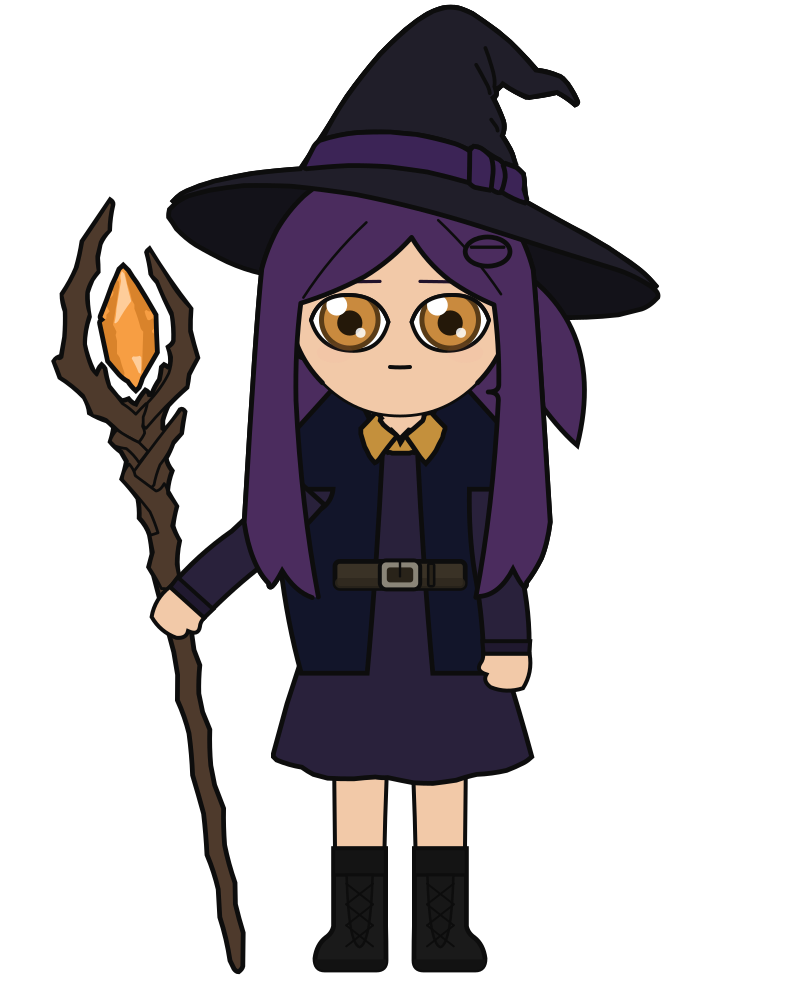
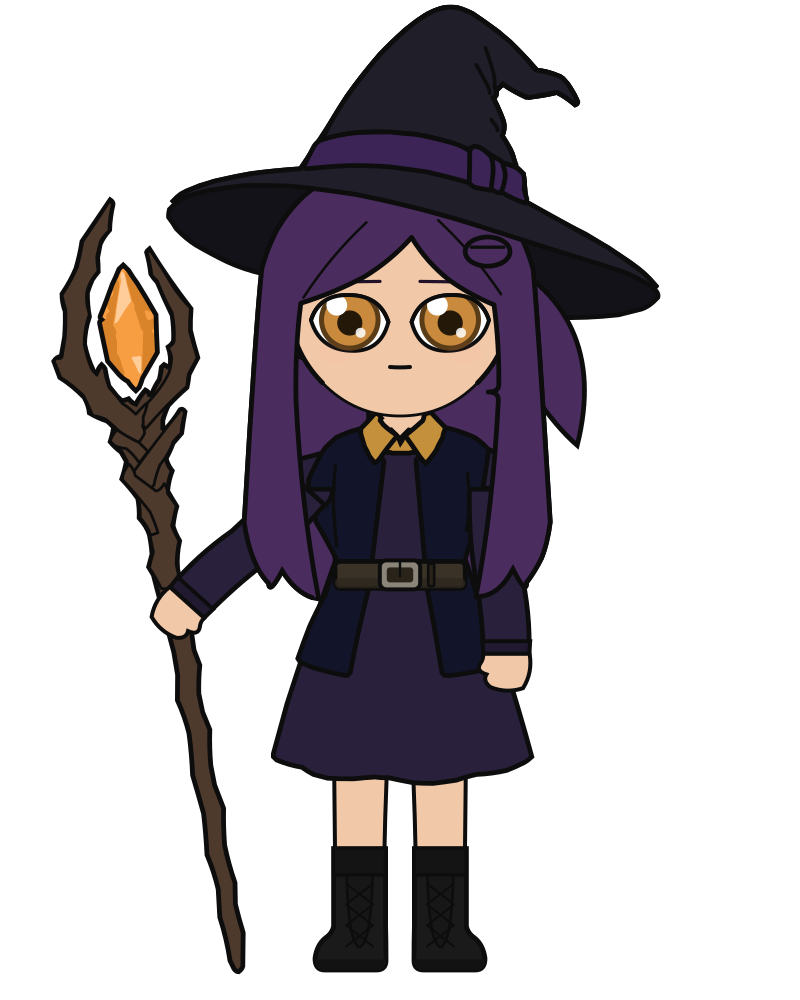
open jacket cut

diff --git a/harness/clothes/trace_jacket.py b/harness/clothes/trace_jacket.py
@@ -1,0 +1,131 @@
+"""Trace the jacket's body (not its sleeves) off katherina_grok.jpg.
+
+    ./harness/run.sh harness/clothes/trace_jacket.py
+
+Each side of the jacket is one piece: the navy upper panel, carried down under
+the belt into the lower panel that flares from it. What hides it, and how each
+hidden stretch is carried:
+
+- The sleeves share components 179/180 with the upper panels, with no outline
+  between; they are purple where the panels are navy, so each pixel is split by
+  hue (red above green is the sleeve's purple). The sleeves are C4's.
+- The hair covers the upper panels' outer edges from the shoulder to the
+  armpit. The panel there is the convex hull of its own visible navy, which
+  carries the shoulder line and the side seam straight across the hair; any
+  body a cut is worn on puts its own hair over that stretch too.
+- The belt covers the join. Its rows are bridged edge to edge, measured just
+  above and just below it (the staff's shaft behind the fist, again).
+
+The seam lines are the outline-dark ink inside each upper panel's hull, away
+from its boundary: where the sleeve's back meets the body.
+
+Writes `out/clothes/jacket.json` (left piece, right piece, seam lines) and
+`out/clothes/jacket_overlay.png`.
+"""
+
+from __future__ import annotations
+
+import json
+import sys
+from pathlib import Path
+
+import numpy as np
+from PIL import Image, ImageDraw
+from scipy import ndimage as ndi
+from scipy.spatial import ConvexHull
+
+sys.path.insert(0, str(Path(__file__).resolve().parents[2] / ".claude/skills/trace-reference"))
+import trace_lib as tl  # noqa: E402
+
+REF = Path(__file__).resolve().parents[3] / "time_slider_katherina/style-anchors/katherina_grok/katherina_grok.jpg"
+OX, OY, SC = 650.0, 481.0, 173.7
+OUT = Path("out/clothes")
+
+rgb = np.asarray(Image.open(REF).convert("RGB")).astype(int)
+r, g, b = rgb[..., 0], rgb[..., 1], rgb[..., 2]
+s = rgb.sum(2)
+lab, _ = ndi.label(s > 60)
+disk = ndi.generate_binary_structure(2, 1)
+ROWS = np.arange(s.shape[0])[:, None]
+COLS = np.arange(s.shape[1])[None, :]
+
+BELT_TOP, BELT_BOT = 878, 925  # rows the belt covers, with its outline
+
+
+def hull_mask(m: np.ndarray) -> np.ndarray:
+    ys, xs = np.nonzero(m)
+    h = ConvexHull(np.column_stack([xs, ys]))
+    inside = np.ones(m.shape, bool)
+    for a, bb, c in h.equations:
+        inside &= a * COLS + bb * ROWS + c <= 0.5
+    return inside
+
+
+def edges(m: np.ndarray, rows: range) -> np.ndarray:
+    out = []
+    for y in rows:
+        xs = np.nonzero(m[y])[0]
+        if len(xs):
+            out.append((xs.min(), xs.max()))
+    return np.mean(out, axis=0)
+
+
+result = {}
+over = Image.fromarray(np.clip(rgb * 3.0, 0, 255).astype("uint8"))
+d = ImageDraw.Draw(over)
+for side, upper_id, lower_id in (("left", 180, 203), ("right", 179, 202)):
+    comp = lab == upper_id
+    navy = comp & ~(r > g + 3)
+    navy = ndi.binary_opening(navy, disk, 2)
+    navy &= ROWS < BELT_TOP  # the panel above the belt only
+    # the sleeve's purple can leave navy specks out along the arm; keep the
+    # panel's own blob
+    nl, _ = ndi.label(navy)
+    sizes = np.bincount(nl.ravel())
+    sizes[0] = 0
+    navy = nl == np.argmax(sizes)
+    upper = hull_mask(navy) & (ROWS < BELT_TOP + 2)
+    lower = ndi.binary_fill_holes(lab == lower_id)
+    a0 = edges(upper, range(BELT_TOP - 10, BELT_TOP))
+    b0 = edges(lower, range(BELT_BOT + 2, BELT_BOT + 12))
+    bridge = np.zeros(s.shape, bool)
+    y0, y1 = BELT_TOP - 4, BELT_BOT + 6
+    for y in range(y0, y1):
+        t = (y - y0) / (y1 - y0)
+        lo, hi = (1 - t) * a0 + t * b0
+        bridge[y, round(lo) : round(hi) + 1] = True
+    piece = upper | bridge | lower
+    piece = ndi.binary_fill_holes(ndi.binary_erosion(ndi.binary_dilation(piece, disk, 3), disk, 3))
+    piece = ndi.binary_dilation(piece, disk, 3)
+    pts = [((x - OX) / SC, (y - OY) / SC) for x, y in tl.boundary(piece)]
+    start, segs = tl.fit_closed(pts, 0.010)
+    result[side] = {"start": start, "segs": segs}
+    d.line([(OX + x * SC, OY + y * SC) for x, y in tl.sample_chain(start, segs, 10)], fill="#00ff66", width=2)
+    print(side, "segments", len(segs), "navy px", int(navy.sum()))
+
+    # seam line: dark ink inside the upper hull, well away from its boundary
+    inner = ndi.binary_erosion(upper, disk, 8)
+    ink = inner & (s <= 60) & ~ndi.binary_dilation(lab == 8, disk, 4)
+    il, n = ndi.label(ink, structure=np.ones((3, 3)))
+    lines = []
+    for i in range(1, n + 1):
+        ys, xs = np.nonzero(il == i)
+        # The collar's own outline runs inside the hull's top corner; the
+        # seams are the long vertical strokes below it.
+        if len(xs) < 60 or ys.mean() < 730:
+            continue
+        pts2 = np.column_stack([xs, ys]).astype(float)
+        mu = pts2.mean(0)
+        u = np.linalg.svd(pts2 - mu, full_matrices=False)[2][0]
+        order = np.argsort((pts2 - mu) @ u)
+        bins = np.array_split(order, 6)
+        cl = [pts2[order[0]], *[pts2[bb].mean(0) for bb in bins if len(bb)], pts2[order[-1]]]
+        h = [((x - OX) / SC, (y - OY) / SC) for x, y in cl]
+        st, sg = tl.fit_chain(h, [0, len(h) // 2, len(h) - 1])
+        lines.append({"start": st, "segs": sg, "px": len(xs)})
+        d.line([(OX + x * SC, OY + y * SC) for x, y in tl.sample_chain(st, sg, 10)], fill="#ff2255", width=2)
+    result[side + "_lines"] = lines
+    print(side, "seam lines", [ln["px"] for ln in lines])
+
+json.dump(result, open(OUT / "jacket.json", "w"), indent=1)
+over.crop((360, 640, 940, 1080)).resize((1160, 880)).save(OUT / "jacket_overlay.png")

diff --git a/src/anime_character_creator/character.py b/src/anime_character_creator/character.py
@@ -307,6 +307,8 @@ class Outfit:
     # layer" part and found this already drew one at a short enough length,
     # so nothing new was built for it.
     coat_color: str | None = None
+    # A traced cut from `COAT_CUTS`; `None` is the shared two-panel coat.
+    coat_cut: str | None = None
     # Where the coat's hem falls, shoulder (0) to ankle (1). Roughly: 0.20 an
     # open vest or cardigan over a tunic, 0.30 a jacket cropped at the waist,
     # 0.62 below the knee, 0.75 mid-calf.
@@ -3317,6 +3319,82 @@ SKIRT_CUTS: dict[str, GarmentCut] = {
 }
 
 
+# Traced coat cuts, drawn by `_coat` when `Outfit.coat_cut` names one. The
+# cut is the whole garment, so `coat_length` does not apply to it.
+# `open_jacket` is the jacket of `katherina_grok.jpg` (`katherina-clothes-plan.md`,
+# C3), its body only: each side is the navy upper panel (split by hue from the
+# purple sleeve it shares a fill with), carried across the hair as the convex
+# hull of its visible navy and under the belt edge to edge, into the lower panel
+# that flares from it; the lines are the seams where the sleeve's back meets the
+# body (`harness/clothes/trace_jacket.py`). The sleeves are C4's.
+COAT_CUTS: dict[str, GarmentCut] = {
+    "open_jacket": GarmentCut(
+        fills=(
+            (
+                (-0.374, 1.123),
+                [
+                    ((-0.257, 1.258), (-0.150, 1.393)),
+                    ((-0.141, 1.413), (-0.144, 1.434)),
+                    ((-0.215, 1.983), (-0.276, 2.533)),
+                    ((-0.375, 2.913), (-0.443, 3.293)),
+                    ((-0.455, 3.305), (-0.466, 3.316)),
+                    ((-0.478, 3.316), (-0.489, 3.316)),
+                    ((-0.633, 3.289), (-0.777, 3.247)),
+                    ((-0.829, 3.223), (-0.881, 3.201)),
+                    ((-0.902, 3.184), (-0.910, 3.166)),
+                    ((-0.861, 3.022), (-0.806, 2.879)),
+                    ((-0.741, 2.737), (-0.662, 2.596)),
+                    ((-0.622, 2.435), (-0.570, 2.274)),
+                    ((-0.652, 2.113), (-0.748, 1.952)),
+                    ((-0.777, 1.854), (-0.800, 1.756)),
+                    ((-0.816, 1.667), (-0.818, 1.577)),
+                    ((-0.761, 1.436), (-0.674, 1.295)),
+                    ((-0.622, 1.240), (-0.570, 1.197)),
+                    ((-0.472, 1.150), (-0.374, 1.123)),
+                ],
+            ),
+            (
+                (0.420, 1.111),
+                [
+                    ((0.544, 1.141), (0.668, 1.197)),
+                    ((0.731, 1.237), (0.794, 1.307)),
+                    ((0.755, 1.569), (0.708, 1.831)),
+                    ((0.649, 2.055), (0.581, 2.280)),
+                    ((0.636, 2.435), (0.679, 2.591)),
+                    ((0.751, 2.720), (0.812, 2.850)),
+                    ((0.877, 3.011), (0.933, 3.172)),
+                    ((0.935, 3.187), (0.915, 3.201)),
+                    ((0.835, 3.238), (0.754, 3.264)),
+                    ((0.604, 3.297), (0.455, 3.316)),
+                    ((0.426, 3.316), (0.397, 3.316)),
+                    ((0.386, 3.305), (0.374, 3.293)),
+                    ((0.313, 2.919), (0.242, 2.545)),
+                    ((0.194, 1.989), (0.144, 1.434)),
+                    ((0.144, 1.413), (0.144, 1.393)),
+                    ((0.278, 1.252), (0.420, 1.111)),
+                ],
+            ),
+        ),
+        lines=(
+            (
+                (-0.576, 1.445),
+                [
+                    ((-0.601, 1.642), (-0.591, 1.869)),
+                    ((-0.576, 2.075), (-0.564, 2.165)),
+                ],
+            ),
+            (
+                (0.604, 1.514),
+                [
+                    ((0.617, 1.679), (0.619, 1.802)),
+                    ((0.616, 1.898), (0.593, 2.026)),
+                ],
+            ),
+        ),
+    ),
+}
+
+
 def hat_hair_margin(p: CharacterParams) -> float:
     """Headroom, in head radii above the skull, that `p`'s hat needs; 0 for none.
 
@@ -3565,6 +3643,8 @@ def _coat(sk: Skeleton, p: CharacterParams) -> str:
     """
     if p.outfit.coat_color is None:
         return ""
+    if p.outfit.coat_cut is not None and _wears_cuts(sk):
+        return _draw_cut(sk, COAT_CUTS[p.outfit.coat_cut], p.outfit.coat_color)
     cx = sk.head_cx
     color = p.outfit.coat_color
     sw = _stroke_w(sk)

diff --git a/harness/clothes/side_by_side.py b/harness/clothes/side_by_side.py
@@ -1,0 +1,37 @@
+"""Reference beside our render, same head scale: `side_by_side.py <out.png> [x0 x1 y0 y1 px]`."""
+
+import io
+import sys
+
+import cairosvg
+from PIL import Image
+
+from anime_character_creator import character as c
+from anime_character_creator.presets import PRESETS
+
+REF = "../time_slider_katherina/style-anchors/katherina_grok/katherina_grok.jpg"
+OX, OY, SC = 650.0, 481.0, 173.7
+out = sys.argv[1]
+X0, X1, Y0, Y1, PX = (float(v) for v in (sys.argv[2:7] if len(sys.argv) > 6 else (-2.2, 2.2, 0.3, 4.8, 110)))
+bg = sys.argv[7] if len(sys.argv) > 7 else "black"
+
+
+def crop(im, ox, oy, s):
+    w, h = im.size
+    big = Image.new("RGB", (w * 3, h * 3), bg)
+    big.paste(im, (w, h))
+    box = (w + ox + X0 * s, h + oy + Y0 * s, w + ox + X1 * s, h + oy + Y1 * s)
+    return big.crop(tuple(round(v) for v in box)).resize((round((X1 - X0) * PX), round((Y1 - Y0) * PX)))
+
+
+p = PRESETS["katherina"]
+sk = c.skeleton_for(p)
+svg = c.render_character(p, sk, background=bg)
+im = Image.open(io.BytesIO(cairosvg.svg2png(bytestring=svg.encode(), scale=6))).convert("RGB")
+k = im.width / sk.canvas_w
+a = crop(Image.open(REF).convert("RGB"), OX, OY, SC)
+b = crop(im, sk.head_cx * k, sk.head_cy * k, sk.head_r * k)
+sheet = Image.new("RGB", (a.width * 2 + 10, a.height), "white")
+sheet.paste(a, (0, 0))
+sheet.paste(b, (a.width + 10, 0))
+sheet.save(out)

diff --git a/src/anime_character_creator/presets.py b/src/anime_character_creator/presets.py
@@ -847,8 +847,9 @@ VIKTOR = CharacterParams(
 # derives with `shade()`, landing within a few units of the reference's.
 # `body="tall_chibi"` is the body type measured off her own reference (3.47
 # heads, high belt, tall boots; see `BODY_TYPES` in character.py), so
-# `coat_length` and `hair_length` are fitted on it: 0.49 lands the coat hem at the
-# reference's 3.30 head radii and 0.83 the hair's ends at its 2.60. The arm angle
+# `hair_length` is fitted on it: 0.83 lands the hair's ends at the reference's
+# 2.60 head radii. Her jacket is the traced `open_jacket` cut, whose hem is traced
+# (the shared coat's fitted `coat_length` of 0.49 went with it). The arm angle
 # was refitted on the same body, as the closest a straight arm swung from the
 # sleeve hem gets to the reference's grip.
 # Her dress (`tunic_color` and `skirt_color`, the tunic tucked so the two read
@@ -876,7 +877,7 @@ KATHERINA = CharacterParams(
         collar_color="#c4903c",
         collar_cut="pointed",
         coat_color="#12152a",
-        coat_length=0.49,
+        coat_cut="open_jacket",
         sleeve_long=True,
         hat_color="#201e29",
         hat_band_color="#3c2456",

diff --git a/src/anime_character_creator/catalogue.py b/src/anime_character_creator/catalogue.py
@@ -34,6 +34,7 @@ from dataclasses import dataclass, fields
 
 from .character import (
     BODY_TYPES,
+    COAT_CUTS,
     COLLAR_CUTS,
     EYESTYLES,
     HAIRSTYLES,
@@ -318,6 +319,8 @@ STAFF_CRYSTAL = GarmentSlot(
     _color("staff_crystal_color", "Staff crystal"),
     requires="staff",
 )
+COAT_CUT_LABELS: dict[str, str] = {"open_jacket": "Open jacket (traced)"}
+assert set(COAT_CUT_LABELS) == set(COAT_CUTS)
 COAT = GarmentSlot(
     "coat",
     "Coat (open outer layer; short for a vest or cardigan)",
@@ -327,6 +330,9 @@ COAT = GarmentSlot(
     # little past both rather than left at the type's full domain. 0.20 opens
     # the floor down to the vest/cardigan length task 31 found already worked.
     ranges=(_range("coat_length", "Coat length", 0.20, 0.85),),
+    selects=(
+        SelectField("coat_cut", "Cut", ((None, "Two panels"), *sorted(COAT_CUT_LABELS.items()))),
+    ),
 )
 
 # Order here is display order: the two always-worn layers first, then

diff --git a/docs/katherina-clothes-plan.md b/docs/katherina-clothes-plan.md
@@ -185,7 +185,27 @@ Looked at on `tall_chibi` and on the shared chibi through the mapping
 
 ### C3. Jacket body
 
-**Status: not started.** The largest milestone.
+**Status: done, 2026-09-17.** `COAT_CUTS["open_jacket"]` (`harness/clothes/trace_jacket.py`):
+each side one piece, the navy upper panel split by hue from the purple sleeve it
+shares a fill component with, carried across the hair as the convex hull of its
+visible navy and under the belt edge to edge into its flaring lower panel; plus
+the two vertical seams where the sleeve's back meets the body. `coat_length`
+does not apply to a traced cut (C3c); Katherina's fitted 0.49 is gone with it.
+The jacket keeps the preset's `#12152a` rather than the reference's `#191d30`:
+the sampled navy against the dress would fail the coat-visibility guard (a gap of
+7 against its 12), and the preset's is the same hue, darker. Harness:
+
+| region | before C3 | after |
+| --- | --- | --- |
+| jacket_upper | 0.489 / 0.067 | 0.555 / 0.057 |
+| dress_bodice | 0.856 / 0.019 | 0.871 / 0.016 |
+| jacket_lower | 0.598 / 0.075 | 0.800 / 0.028 |
+| skirt | 0.894 / 0.035 | 0.949 / 0.016 |
+
+`jacket_upper` still counts the sleeves (they share its components), so it moves
+with C4. Seen at 4x on white (`out/clothes/c3_shoulders.png`): the tunic's own
+sleeve caps and the swung arm's joint cap show beside the jacket's shoulders where
+our hair is narrower than the reference's; both are C4's.
 
 - [ ] **C3a.** Trace the upper panels (179/180 minus the sleeves), the
       sloping shoulders and the front edges down to the belt. The hair hides
